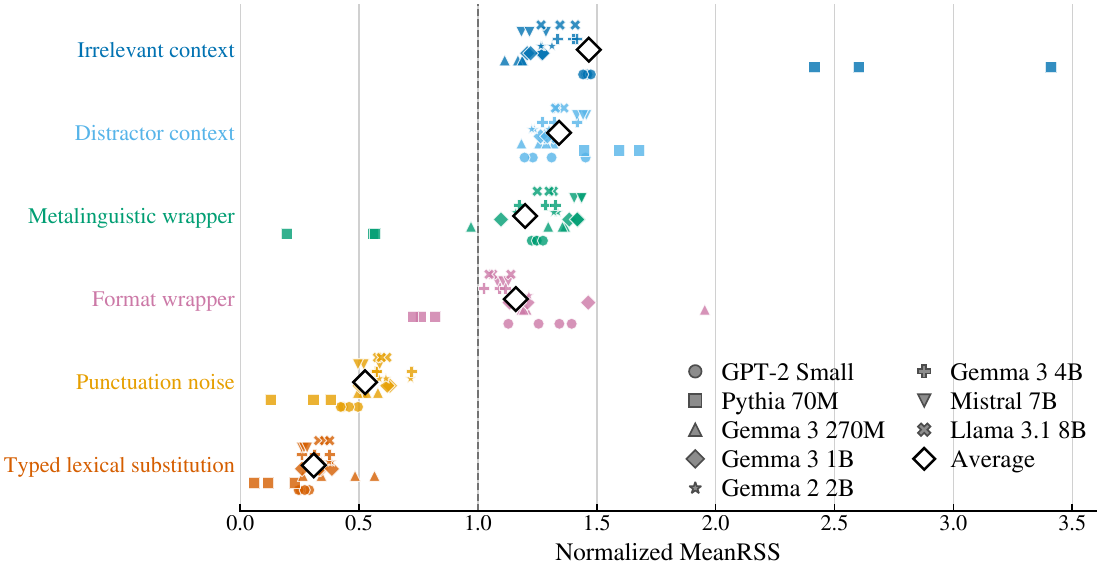
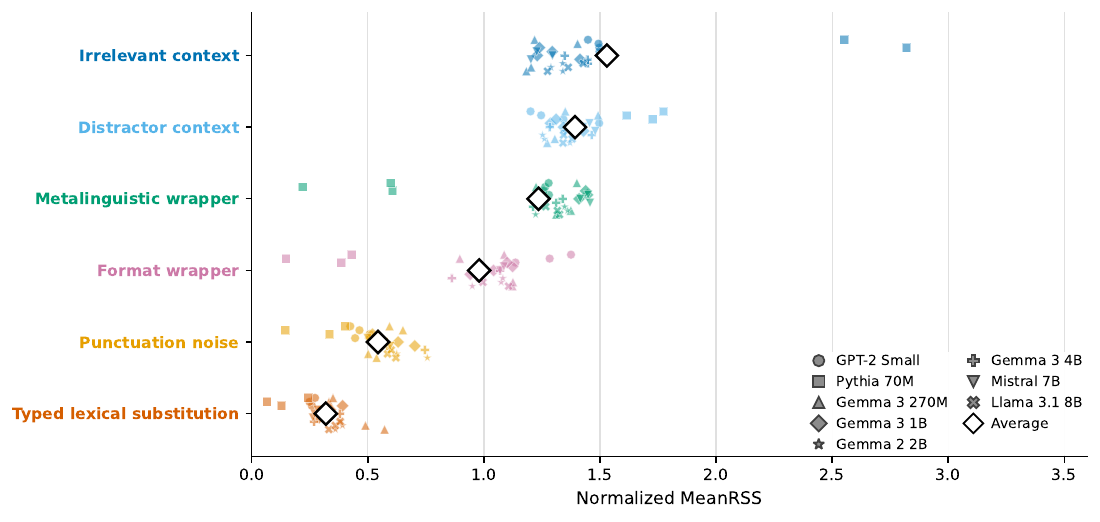
Use corrected target alignment numbers for Figure 2 and Figure S1, link the arXiv paper
Figure 2 now reports the analysis with the evaluated token inside the preserved
prompt span for every variant (difference 0.853 [0.846, 0.860], 988 of 1,000
prompts). A note records the arXiv v1 values. The GPT-2 layer gaps quoted under
the demo follow the same correction.

diff --git a/README.md b/README.md
@@ -13,7 +13,7 @@ In two frozen safety readouts, combining RSS support erosion with the clean marg
 0.935 and 0.958 with median supports of 20 and 19 features, compared with 0.965 and 0.964 using full erosion.
 
 <p align="center">
-  <b>📄 arXiv paper coming soon</b> &nbsp; | &nbsp;
+  <a href="https://arxiv.org/abs/2610.21240"><b>📄 Paper (arXiv)</b></a> &nbsp; | &nbsp;
   <a href="https://uniquemax2005.github.io/rss-redistribution/"><b>🎞 5-minute tutorial</b></a> &nbsp; | &nbsp;
   <a href="#-demo"><b>🧪 Demo</b></a>
 </p>
@@ -45,7 +45,7 @@ works offline.
 ## ✨ Highlights
 
 - 🔁 **A reproducible profile.** In all 27 SAEs, context and wrapper transformations move the representation more than
-  local edits. The normalized gap is 0.874, and the context and wrapper mean is larger for all 1,000 prompts.
+  local edits. The normalized gap is 0.853, and the context and wrapper mean is larger for all 1,000 prompts.
 - 🎯 **A simple selection rule.** RSS keeps the largest feature changes that respond in at least four of five variants
   and point the same way in at least 80% of them.
 - 🧭 **Directions persist.** On held out variants, RSS features respond in their selected direction at a rate of 0.952,
@@ -280,12 +280,18 @@ Normalized MeanRSS $`\widetilde R_g`$ averaged over the 27 SAEs with equal weigh
 
 | Irrelevant context | Distractor context | Metalinguistic wrapper | Format wrapper | Punctuation noise | Typed lexical substitution |
 |:---:|:---:|:---:|:---:|:---:|:---:|
-| **1.466** | **1.341** | **1.199** | **1.159** | 0.525 | 0.309 |
+| **1.530** | **1.393** | **1.235** | **0.980** | 0.544 | 0.319 |
 
-The context and wrapper mean exceeds the local edit mean in all 27 SAEs, with an average difference of 0.874 and a 95%
-interval of 0.867 to 0.881. It does so for all 1,000 prompts, and every context or wrapper setting exceeds both local
-edits for 997. Across four intensity levels, the median prompt level Spearman correlation between intensity and MeanRSS
+The context and wrapper mean exceeds the local edit mean in all 27 SAEs, with an average difference of 0.853 and a 95%
+interval of 0.846 to 0.860. It does so for all 1,000 prompts, and every context or wrapper setting exceeds both local
+edits for 988. Across four intensity levels, the median prompt level Spearman correlation between intensity and MeanRSS
 is 0.95 for punctuation edits, 0.74 for irrelevant context and 0.50 for the format wrapper.
+
+> [!NOTE]
+> These Figure 2 numbers use corrected target alignment. In two format wrapper operators, the evaluated token had
+> landed on a trailing label instead of the last token of the preserved prompt span; it now always lies in the
+> preserved span. arXiv v1 reports the earlier values (difference 0.874 [0.867, 0.881], 997 of 1,000 prompts). The
+> ordering of the six transformations and the result in all 27 SAEs are unchanged.
 
 #### 🧭 Figure 3. Response contrast on variants excluded from feature selection
 
@@ -359,8 +365,8 @@ Prompts where context and wrappers move more: 24 / 24
 
 ✅ The demo shows the same pattern as the paper. Context and wrapper transformations move the representation more than
 local edits, and typed substitution moves a different set of features. Layers 4, 6, 8 and 10 give gaps of 0.903,
-0.717, 0.492 and 0.390, with 23 or 24 of 24 prompts in the same direction. With 1,000 generated prompts the paper
-reports gaps of 0.939 to 0.979 for these four layers.
+0.717, 0.492 and 0.390, with 23 or 24 of 24 prompts in the same direction. With 1,000 generated prompts the paper's
+analysis, with the corrected target alignment above, gives gaps of 0.925 to 0.977 for these four layers.
 
 ---
 
